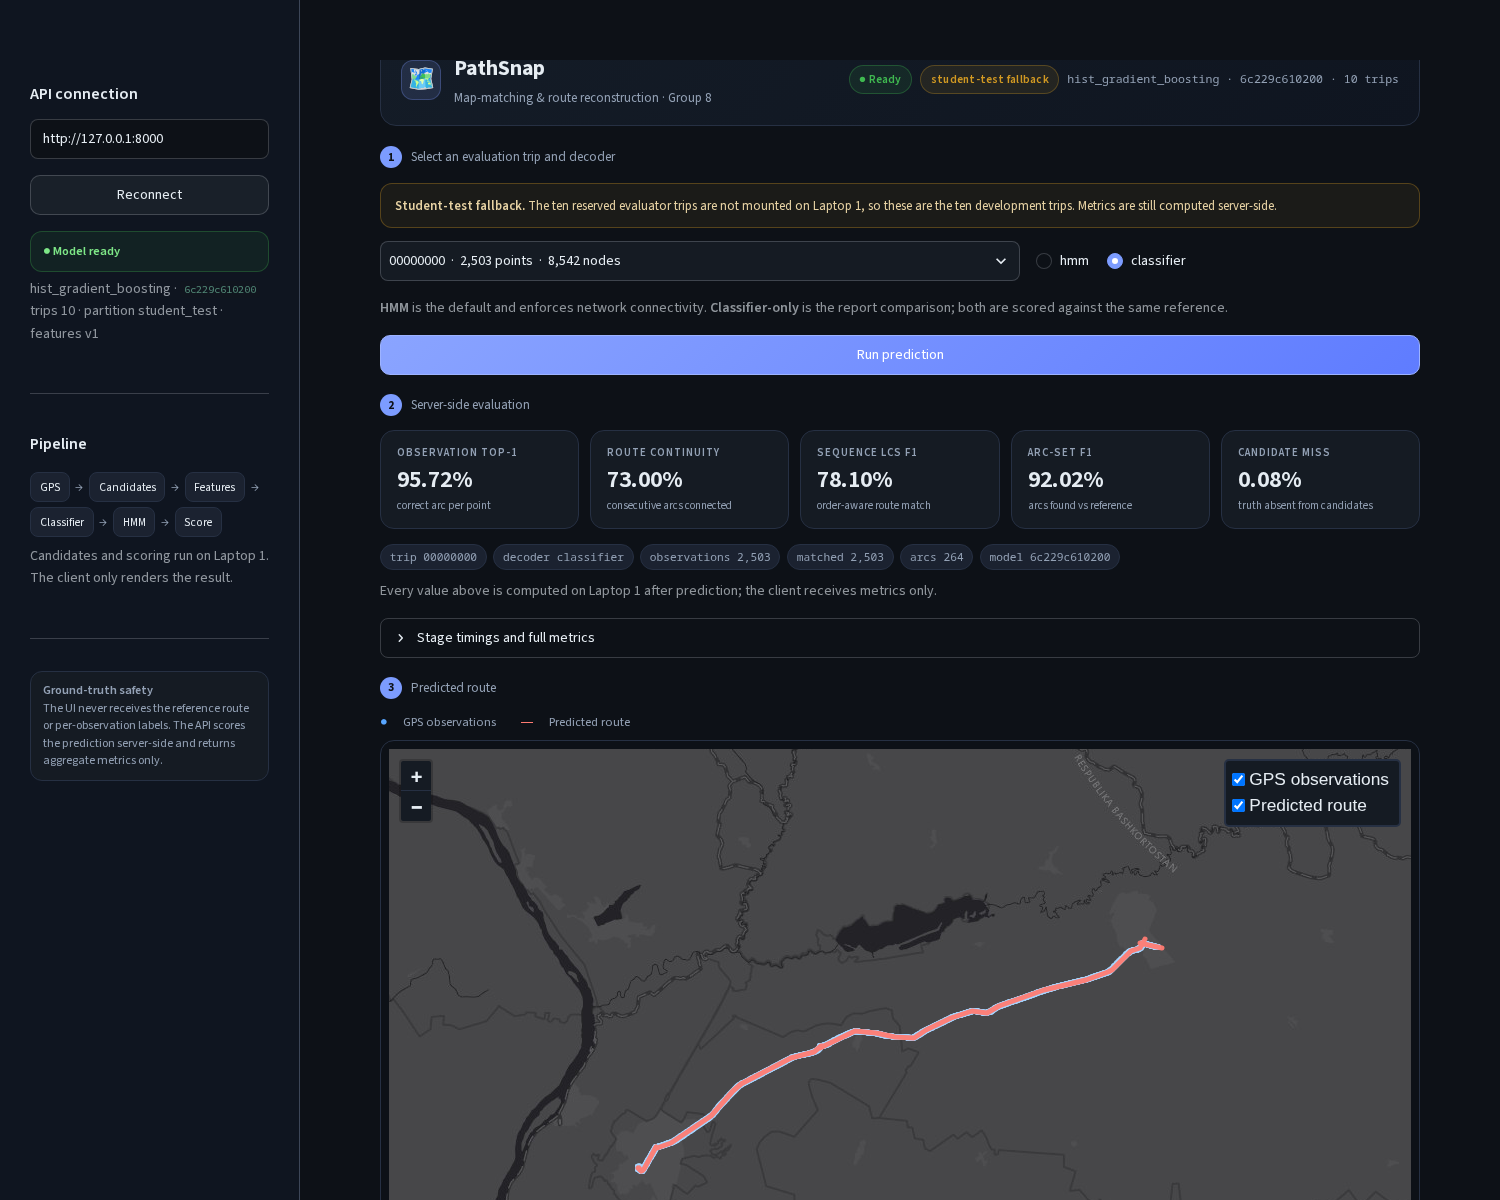
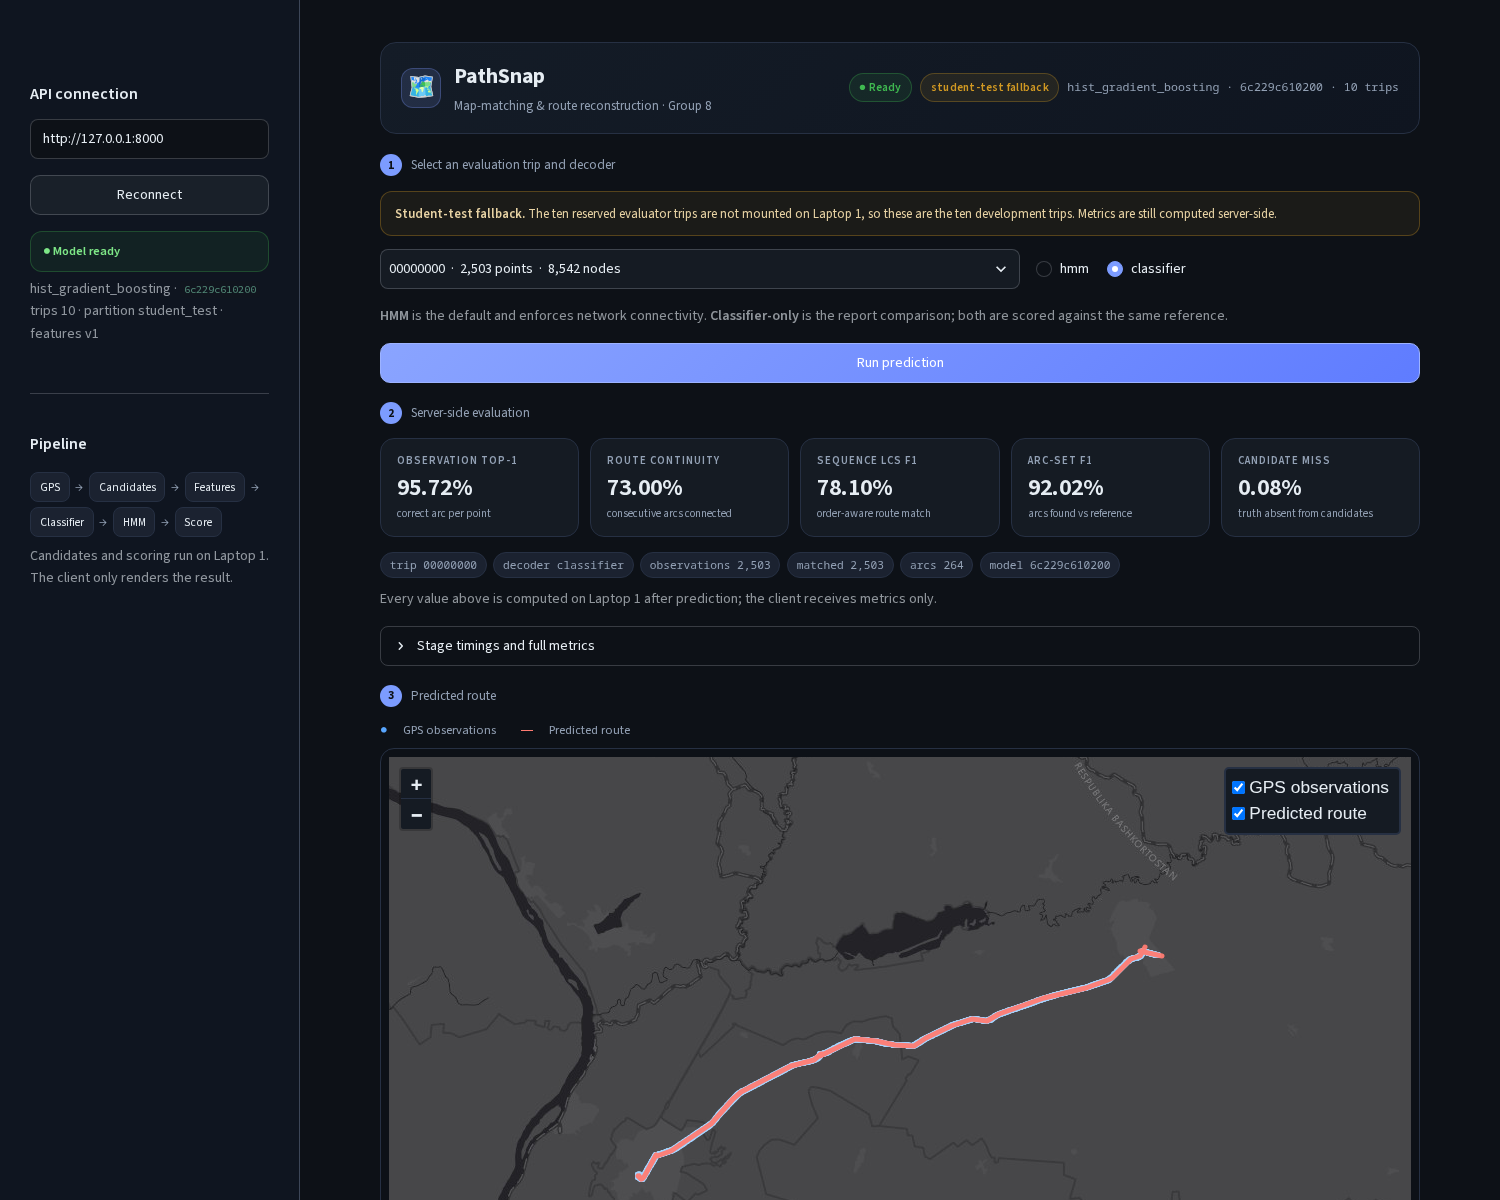
fix(ui): unclip header card and drop the ground-truth sidebar block
- stHeader is fixed-position and was covering the top of the header card;
  hide it and use block-container padding instead.
- Remove the Ground-truth safety sidebar card (the claim stays in the
  metric caption, report and leakage tests).
- Stop caching failed /health and /trips probes so the UI recovers as soon
  as the API comes back.
- Refresh the three dark screenshots.

diff --git a/ui/app.py b/ui/app.py
@@ -44,7 +44,7 @@ st.markdown(
         --ps-route: #ff7b72;
     }
     .block-container {
-        padding-top: 1.1rem;
+        padding-top: 1.6rem;
         padding-bottom: 3rem;
         max-width: 1250px;
     }
@@ -159,15 +159,6 @@ st.markdown(
     .ps-legend { display: flex; gap: 1rem; font-size: .78rem; color: var(--ps-muted); margin: .35rem 0 .4rem; }
     .ps-dot-blue { color: var(--ps-gps); }
     .ps-dot-red { color: var(--ps-route); }
-    .ps-sidebar-note {
-        border: 1px solid var(--ps-border);
-        background: var(--ps-panel);
-        border-radius: 12px;
-        padding: .65rem .75rem;
-        font-size: .76rem;
-        color: var(--ps-muted);
-        line-height: 1.45;
-    }
     div[data-testid="stMetric"] {
         background: var(--ps-panel);
         border: 1px solid var(--ps-border);
@@ -195,8 +186,10 @@ st.markdown(
         border-radius: 12px;
         background: var(--ps-panel);
     }
-    /* Hide Streamlit chrome so the demo looks like a product, not an editor. */
-    #MainMenu, footer, [data-testid="stToolbar"], [data-testid="stDecoration"] {
+    /* Hide Streamlit chrome so the demo looks like a product, not an editor.
+       stHeader is fixed-position and was clipping the top of the header card. */
+    #MainMenu, footer, [data-testid="stToolbar"],
+    [data-testid="stDecoration"], header[data-testid="stHeader"] {
         display: none !important;
     }
     .ps-state {
@@ -239,8 +232,8 @@ st.markdown(
 # ---------------------------------------------------------------------------
 # API helpers
 # ---------------------------------------------------------------------------
-@st.cache_data(ttl=10, show_spinner=False)
 def fetch_health(api_url: str) -> dict | None:
+    """Return /health, or None when the API is unreachable."""
     try:
         response = requests.get(f"{api_url}/health", timeout=10)
         response.raise_for_status()
@@ -249,7 +242,6 @@ def fetch_health(api_url: str) -> dict | None:
         return None
 
 
-@st.cache_data(ttl=60, show_spinner=False)
 def fetch_trips(api_url: str) -> tuple[dict | None, str | None]:
     try:
         response = requests.get(f"{api_url}/trips", timeout=30)
@@ -296,8 +288,6 @@ with st.sidebar:
     api_url = st.text_input("Base URL", value=DEFAULT_API, label_visibility="collapsed")
     api_url = api_url.rstrip("/")
     if st.button("Reconnect", use_container_width=True):
-        fetch_health.clear()
-        fetch_trips.clear()
         st.rerun()
 
     health = fetch_health(api_url)
@@ -336,15 +326,6 @@ with st.sidebar:
         unsafe_allow_html=True,
     )
     st.caption("Candidates and scoring run on Laptop 1. The client only renders the result.")
-
-    st.divider()
-    st.markdown(
-        '<div class="ps-sidebar-note"><b>Ground-truth safety</b><br>'
-        "The UI never receives the reference route or per-observation labels. "
-        "The API scores the prediction server-side and returns aggregate metrics only."
-        "</div>",
-        unsafe_allow_html=True,
-    )
 
 
 # ---------------------------------------------------------------------------
